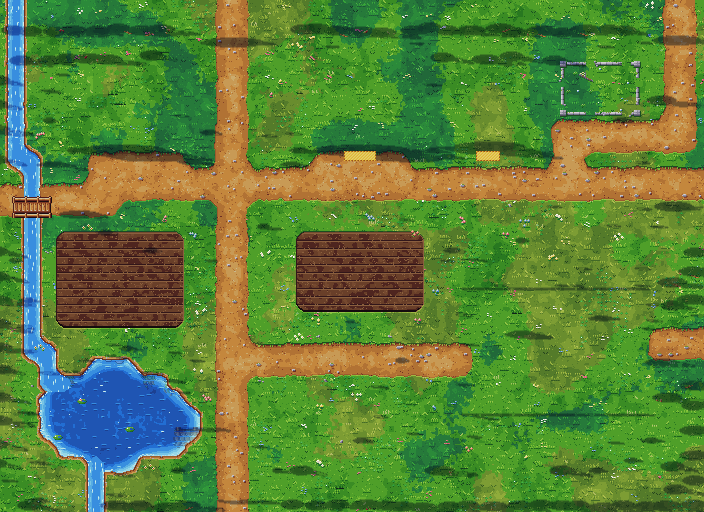
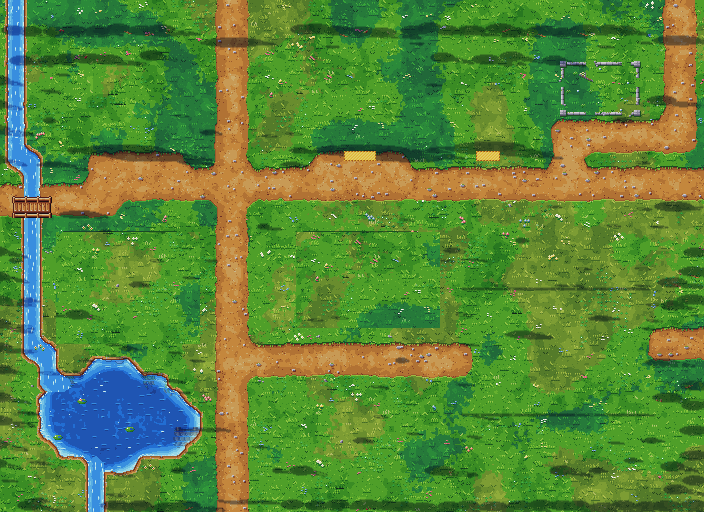
Take the drawn crop beds off the Homestead
The two furrowed rectangles were painted into the ground art, so the farm
looked worked before the player touched it. The ground there is plain grass
now, ready to be hoed. Also fixes the syntax error I left in the rig file when
the merchant came out.

Changed region(s): [[0.0625, 0.4375, 0.2812, 0.6875], [0.4062, 0.4375, 0.625, 0.6562]]

diff --git a/art/stackacres-td/areas/rig/homestead.py b/art/stackacres-td/areas/rig/homestead.py
@@ -3,7 +3,8 @@
 
 44x32 tiles. Ray's house and the barn face a shared farmyard; one lane runs from the
 shore road in the south through the yard to the north gate, where a fallen log blocks
-the way to the Old Fields. Crop beds flank the lane, the pond and dock sit south-west,
+the way to the Old Fields. The ground either side of the lane is bare for the
+player to hoe, the pond and dock sit south-west,
 Hen Haven east, and the east road ends at a broken cart before Town Square. Three more
 exits: the west trail (brambles) to the Ancestral Oak, the hill trail (rockfall) to the
 Mine, and Hen Haven's back gate (overgrown hedge) to the Fold. A stream comes out of the
@@ -13,7 +14,6 @@ the characters standing in them, animated views, and the shared tileset.
 """
 import os
 
-import crops
 import kit
 import props
 from area import AREAS, Area, T
@@ -36,8 +36,8 @@ def build(for_game=False):
     a.line("path", (15, 22), (28, 22))                 # spur to Hen Haven's gate
     a.line("path", (0, 12), (6, 12))                   # west trail into the woods
     a.line("path", (41, 21), (MW, 21))                 # Hen Haven's back gate, east to the Fold
-    a.rect("soil", *WEST_BED)
-    a.rect("soil", *EAST_BED)
+    # No tilled beds are painted here any more: the player hoes their own,
+    # so the ground under WEST_BED/EAST_BED stays plain grass.
     a.ellipse("water", 7, 26, 4.6, 3.2)                # the pond, with a lobe reaching the dock
     a.ellipse("water", 10, 26.5, 2.6, 2.0)
     a.line("stream", (1, 0), (1, 7), width=1)          # the stream: down the west side, under the bridge, into the pond
@@ -93,25 +93,13 @@ def build(for_game=False):
     a.add(kit.fence(44, vertical=True), 643, 414)
     a.add(kit.coop(), 520, 334, (14, 3), tag="pen:henhaven")
     a.zone("pen:henhaven", 470, 290, 172, 124)
-    for tx0, ty0, tx1, ty1 in (WEST_BED, EAST_BED):   # the home beds are a kitchen garden; crops go in the Old Fields
+    for tx0, ty0, tx1, ty1 in (WEST_BED, EAST_BED):   # where the game lets a player break ground near the house
         a.zone("homebeds", tx0 * T - 8, ty0 * T - 8, (tx1 - tx0 + 1) * T, (ty1 - ty0 + 1) * T)
     if for_game:                                       # the game draws the player's real hens and crops itself
         a.zone("hen-spots", 500, 330, 130, 70)
     else:
         for i, (x, y) in enumerate(((560, 350), (590, 372), (540, 390), (610, 330))):
             a.add(kit.hen(i % 2 == 0), x, y, (4, 1))
-
-    for bed, (x0, y0, x1, y1) in enumerate((WEST_BED, EAST_BED)):
-        if for_game:
-            break
-        for ty in range(y0, y1 + 1):
-            name = ("wheat" if ty - y0 < 2 else "radish") if bed else ("carrot", "potato")[(ty - y0) // 2 % 2]
-            for tx in range(x0, x1 + 1):
-                roll = kit.hash2(tx, ty, 21 + bed)
-                if roll < 0.12:
-                    continue
-                stage = 0 if roll < 0.3 else 1 if roll < 0.55 else 2
-                a.add(crops.crop(name, stage), tx * T, ty * T + 4)
 
     def kind(x, y):
         r = kit.hash2(x, y, 5)
@@ -166,7 +154,6 @@ def build(for_game=False):
     a.character("pilgrim", 64, 484)
     a.character("pierre", 336, 226)                    # farmstead travelers
     a.character("ivy", 540, 108)
-    if for_game:
     return a
 
 
